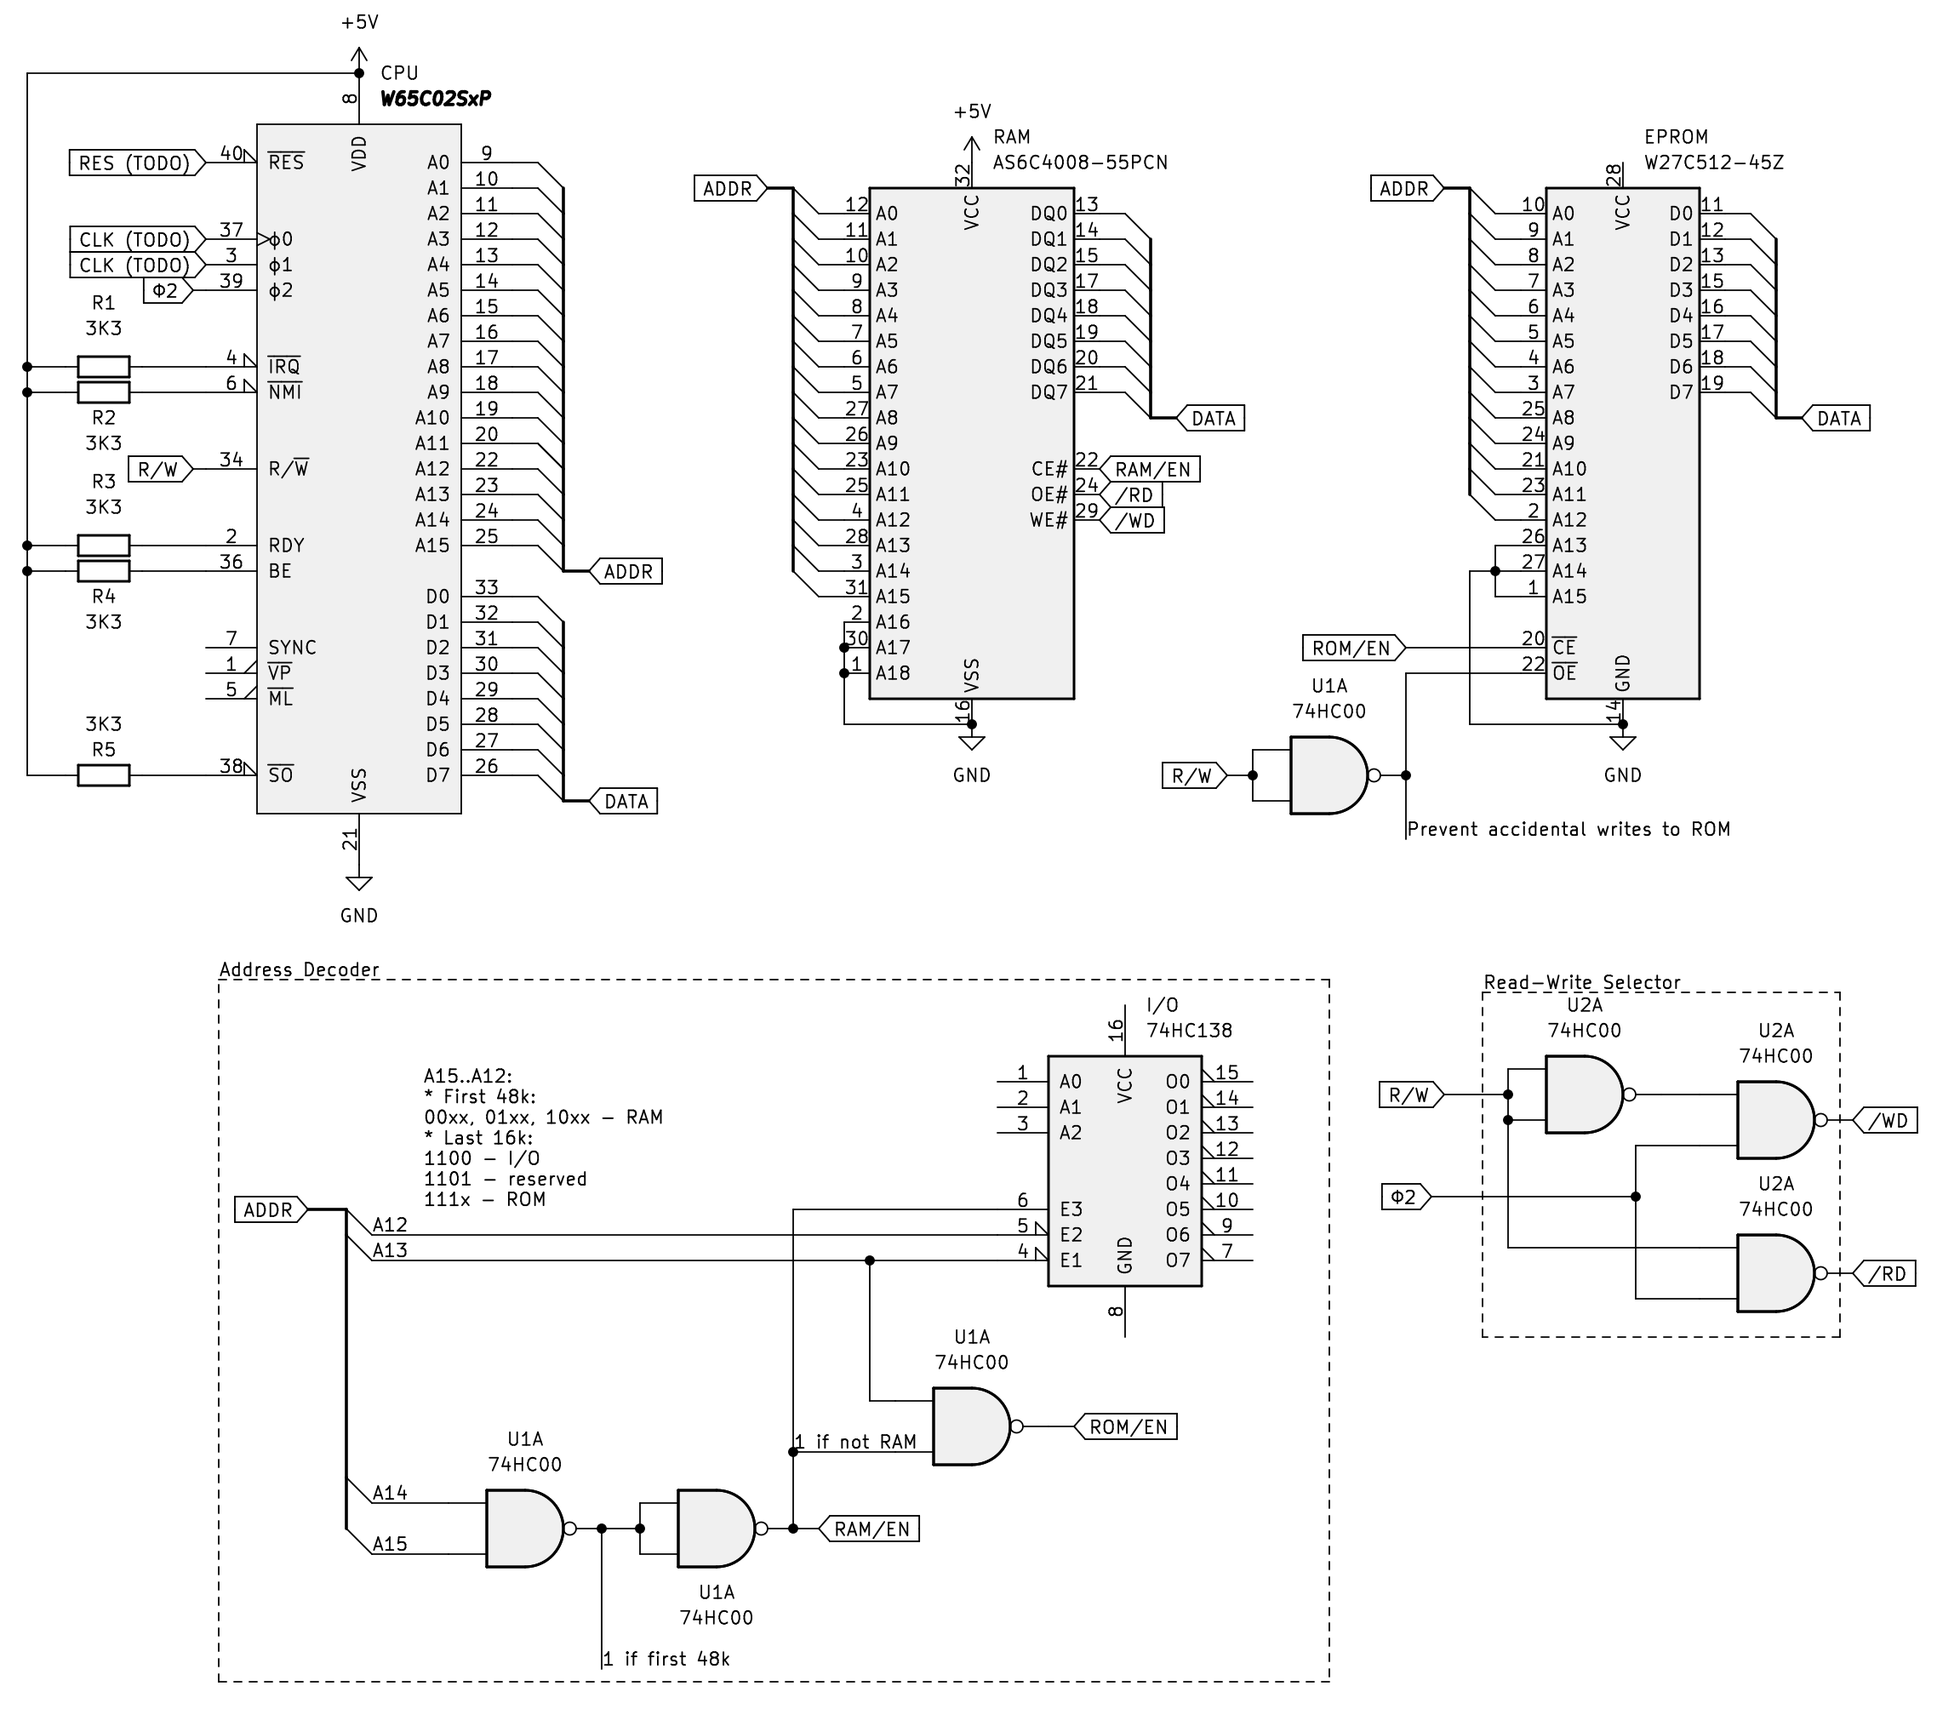
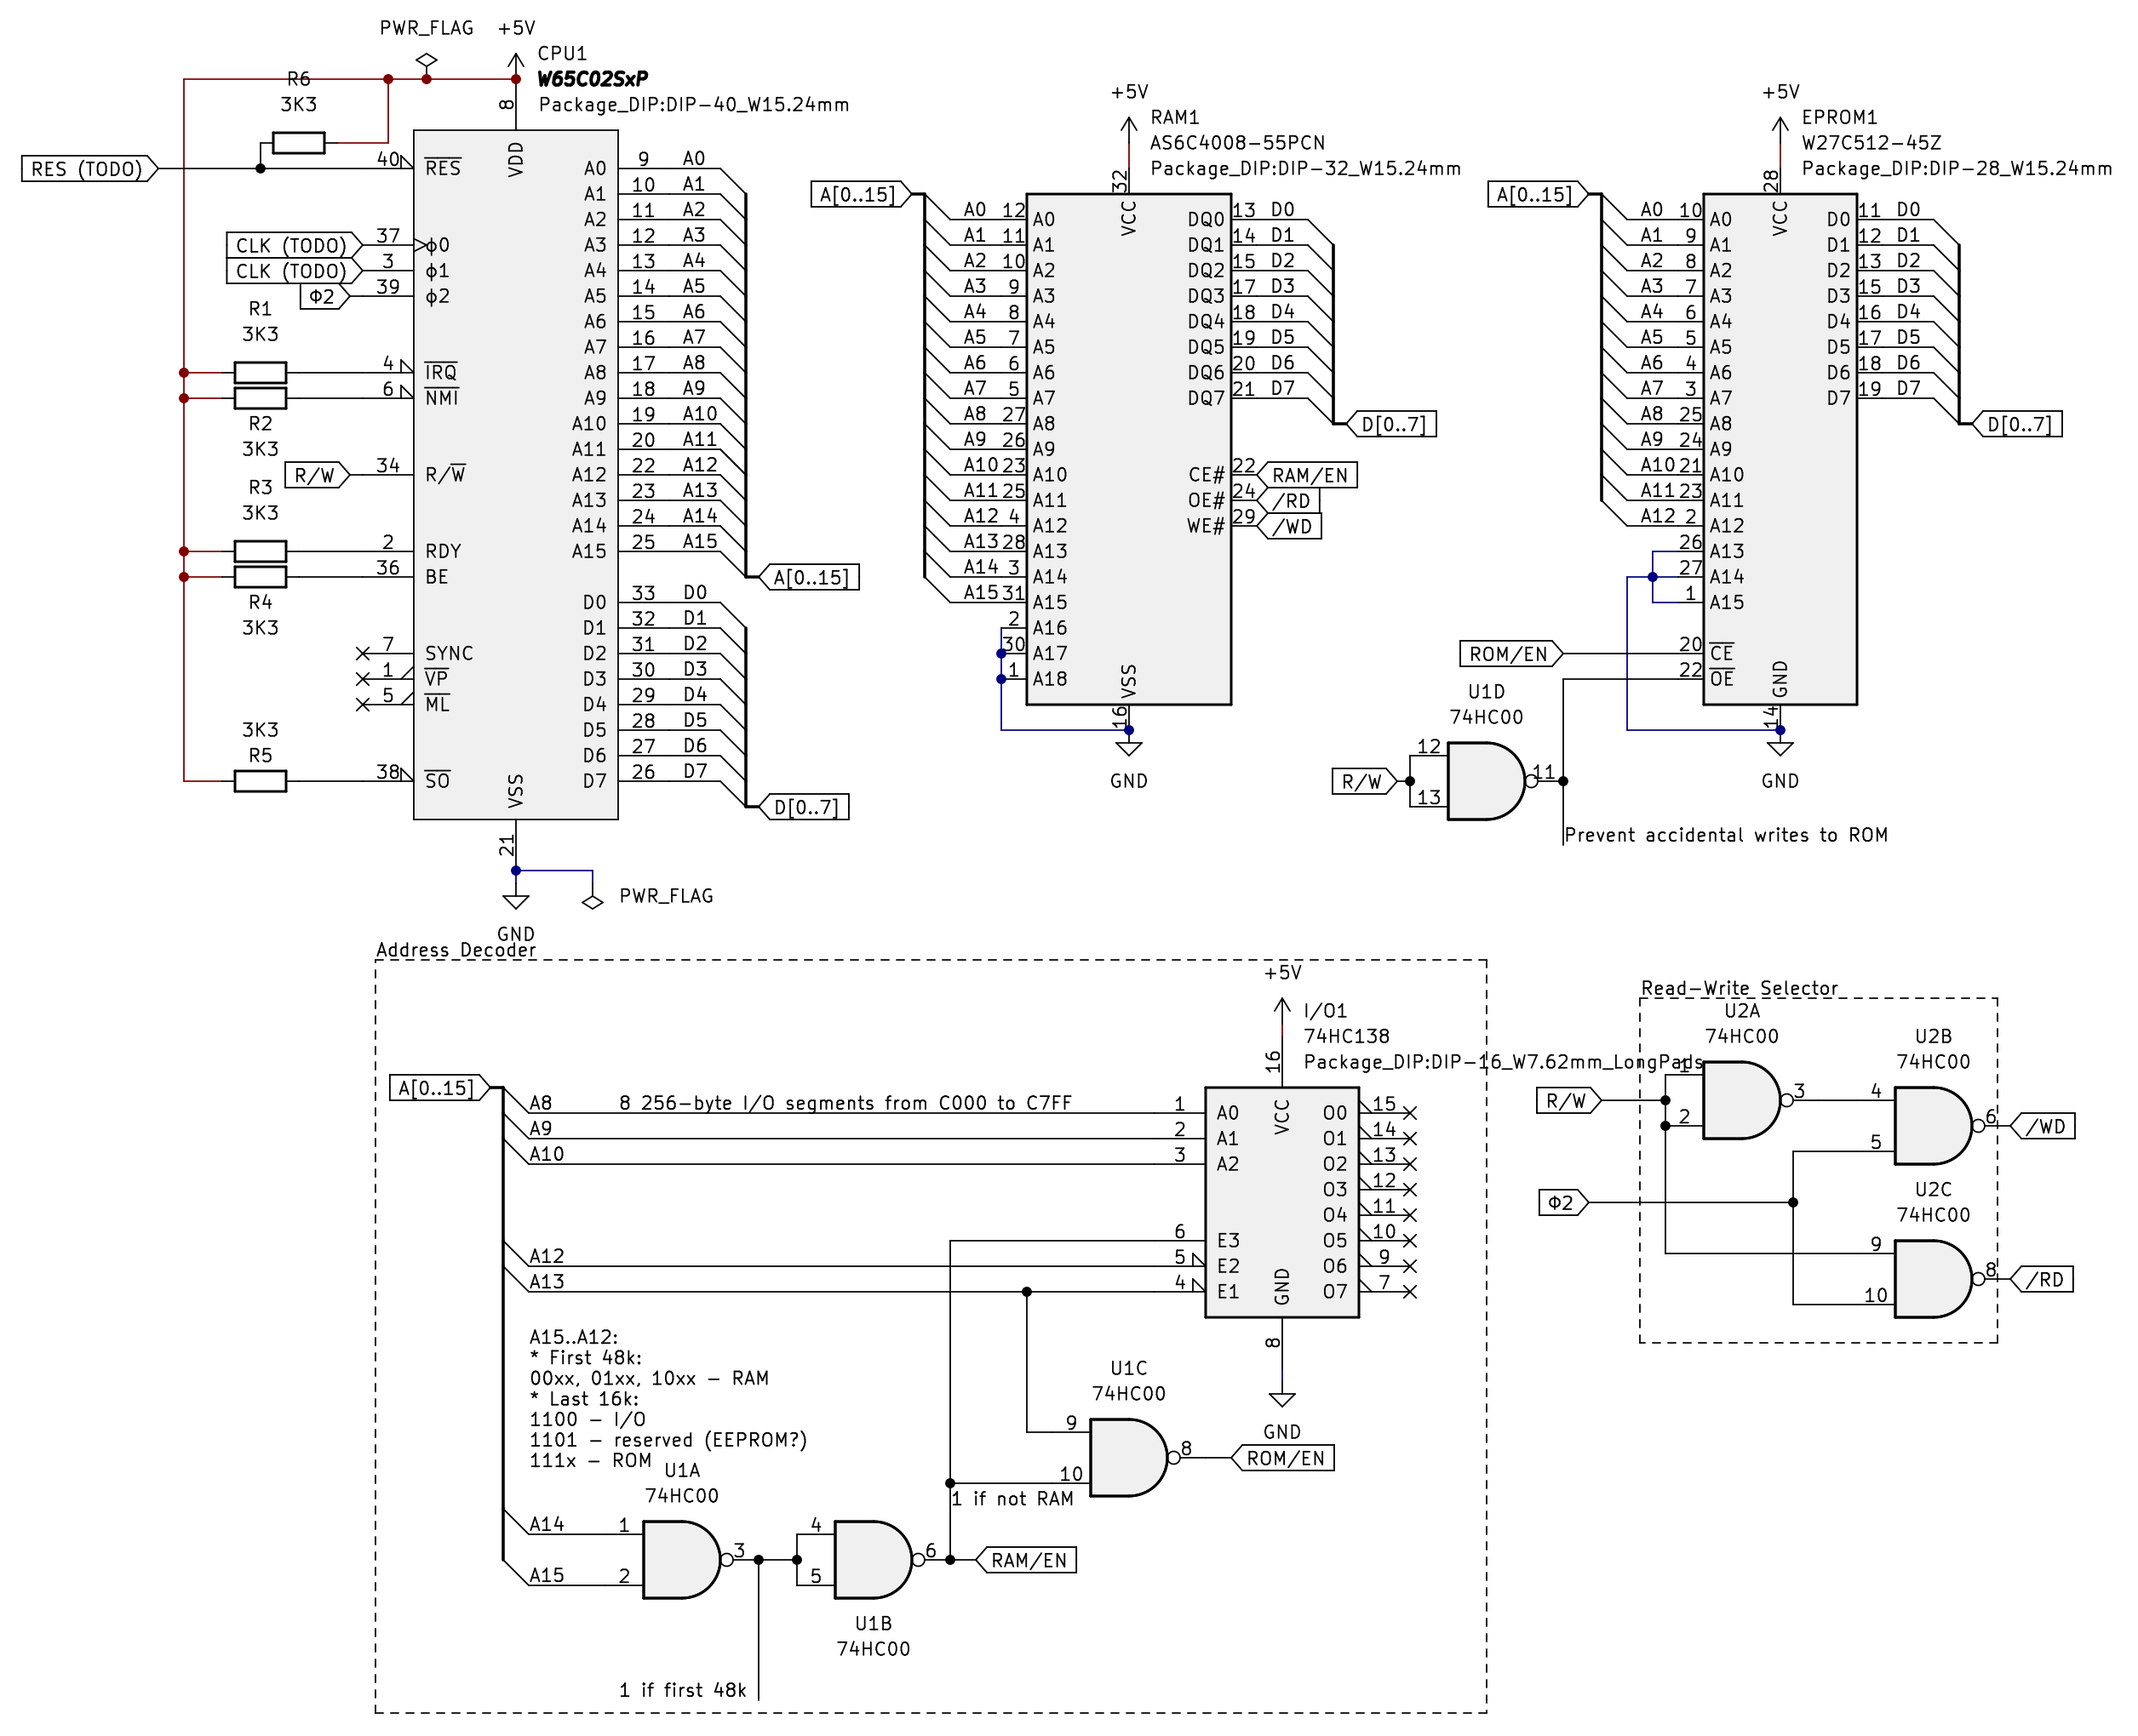
Add address lines to 74HC138 (I/O address decoder)

diff --git a/README.md b/README.md
@@ -1,2 +1,7 @@
 # m6502
+
 Simple SBC based on 65c02s
+
+Discussion: http://forum.6502.org/viewtopic.php?f=12&t=7501
+
+Interactive addressing schematic: https://circuitverse.org/simulator/embed/6502-address-selector
